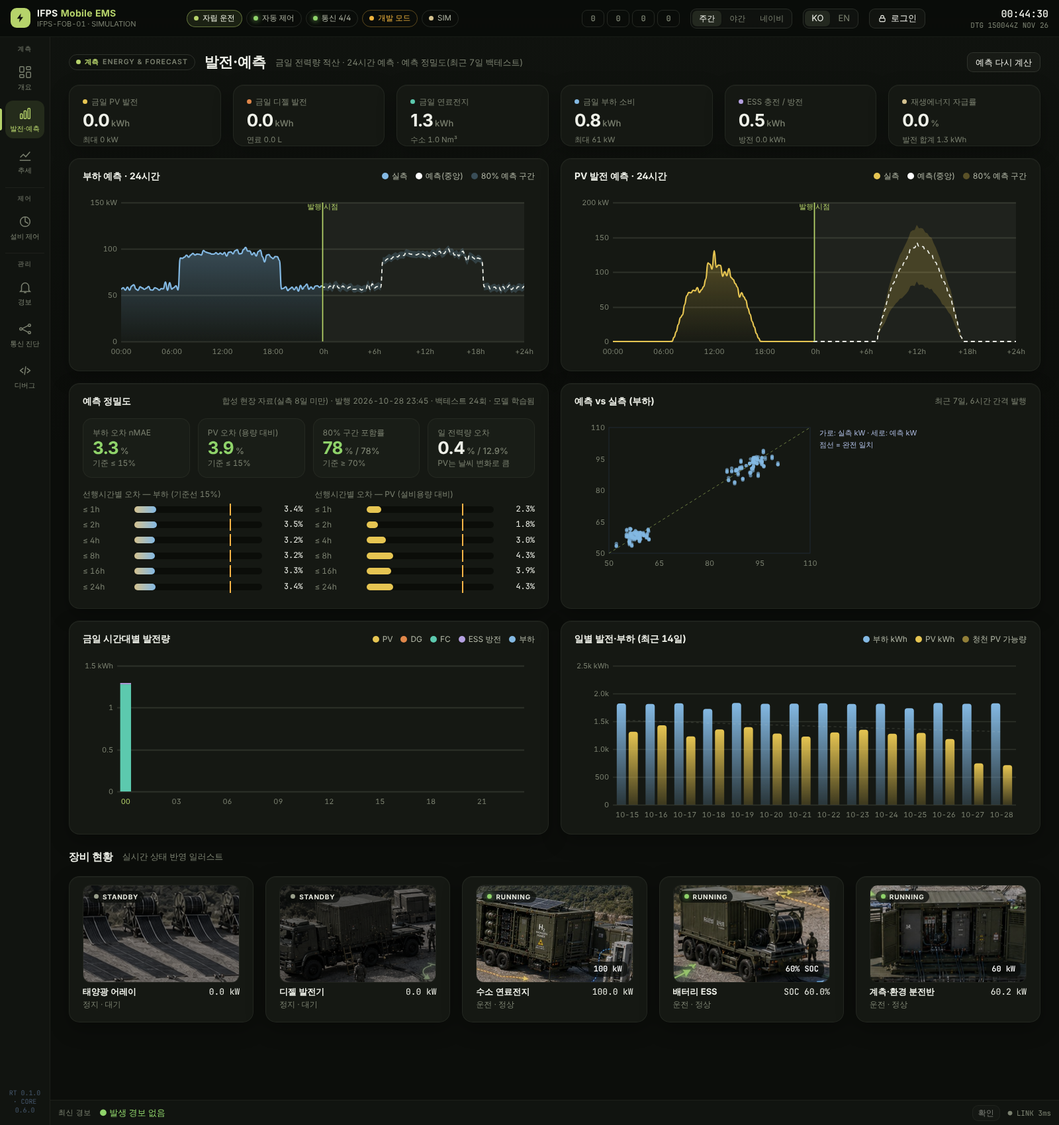
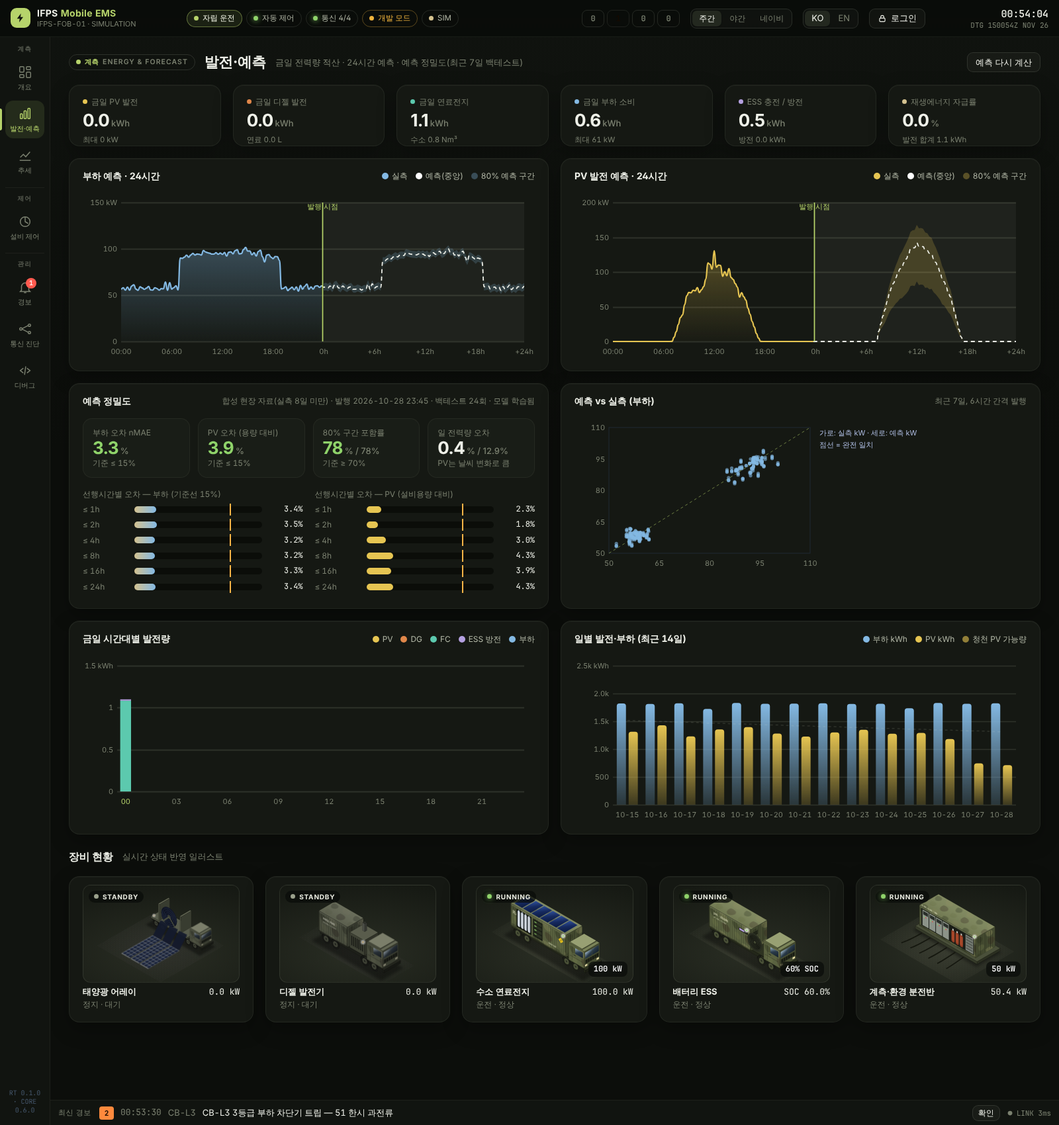
feat(mobile_ems): original isometric vector equipment art and generated deployment map (no cropped images)
- isoart.js: isometric drawing library with camouflage, edges, ground pads; models for ESS/PV/H2/hybrid-diesel trucks, distribution container, EMS shelter, FSU, tents, ammo bunker
- deployment map rebuilt as vector scene: mountains, gravel ground, ring cables with live flow and fault markers, FSU nodes, comm links
- cards and one-line diagram tiles use the vector art with live state; cropped proposal images removed

Claude-Session: https://claude.ai/code/session_01LA7MXdZMW4gUQZvBygoRnA

diff --git a/mobile_ems/ifps_ems_rt/hmi/static/isoart.js b/mobile_ems/ifps_ems_rt/hmi/static/isoart.js
@@ -1,0 +1,189 @@
+/* 등각(아이소메트릭) 벡터 장비 일러스트 — 자체 제작(제안서 이미지는 형태·구성만 참고)
+   좌표: x(오른쪽 아래), y(왼쪽 아래), z(위), 단위 m.  면 그룹(faceL/faceR/faceT) 안에서는 면 기준 좌표로 그린다. */
+"use strict";
+const ISO_C = Math.cos(Math.PI / 6), ISO_S = 0.5;
+const OD = { t: "#7b8459", l: "#5a6240", r: "#454c31", dk: "#2e3321", ln: "#23271a", hi: "#98a073", tire: "#1b1d16", rim: "#4a5137", sten: "#d7d9b8" };
+let _isoN = 0;
+class Iso {
+  constructor(ox, oy, S) { this.ox = ox; this.oy = oy; this.S = S; this.id = "iso" + (++_isoN); }
+  p(x, y, z = 0) { return [this.ox + (x - y) * ISO_C * this.S, this.oy + (x + y) * ISO_S * this.S - z * this.S]; }
+  pts(a) { return a.map(q => this.p(...q).map(v => v.toFixed(1)).join(",")).join(" "); }
+  poly(a, fill, extra = "") { return `<polygon points="${this.pts(a)}" fill="${fill}" stroke="#0b0d08" stroke-opacity=".38" stroke-width="${Math.max(.5, this.S * .035).toFixed(2)}" stroke-linejoin="round" ${extra}/>`; }
+  ground(x0, y0, x1, y1) { return `<polygon points="${this.pts([[x0, y0, 0], [x1, y0, 0], [x1, y1, 0], [x0, y1, 0]])}" fill="url(#${this.id}gr)"/><polygon points="${this.pts([[x0, y0, 0], [x1, y0, 0], [x1, y1, 0], [x0, y1, 0]])}" fill="url(#${this.id}gv)" opacity=".3"/>`; }
+  box(x, y, z, w, d, h, c = OD, extra = "") {
+    return this.poly([[x, y, z + h], [x + w, y, z + h], [x + w, y + d, z + h], [x, y + d, z + h]], c.t, extra) +
+      this.poly([[x, y + d, z], [x + w, y + d, z], [x + w, y + d, z + h], [x, y + d, z + h]], c.l, extra) +
+      this.poly([[x + w, y, z], [x + w, y + d, z], [x + w, y + d, z + h], [x + w, y, z + h]], c.r, extra);
+  }
+  // 왼쪽 면(y=y0 평면, x 방향 폭 w, 높이 h): 원점=왼쪽 위, u→x, v↓
+  faceL(x, y, z, h, inner) { const [X, Y] = this.p(x, y, z + h), S = this.S; return `<g transform="matrix(${(ISO_C * S).toFixed(3)},${(ISO_S * S).toFixed(3)},0,${S},${X.toFixed(1)},${Y.toFixed(1)})">${inner}</g>`; }
+  // 오른쪽 면(x=x0 평면): 원점=y+d 쪽 위, u→(y 감소), v↓
+  faceR(x, y, z, d, h, inner) { const [X, Y] = this.p(x, y + d, z + h), S = this.S; return `<g transform="matrix(${(ISO_C * S).toFixed(3)},${(-ISO_S * S).toFixed(3)},0,${S},${X.toFixed(1)},${Y.toFixed(1)})">${inner}</g>`; }
+  // 윗면(z=z0 평면): 원점=(x,y), u→x, v→y
+  faceT(x, y, z, inner) { const [X, Y] = this.p(x, y, z), S = this.S; return `<g transform="matrix(${(ISO_C * S).toFixed(3)},${(ISO_S * S).toFixed(3)},${(-ISO_C * S).toFixed(3)},${(ISO_S * S).toFixed(3)},${X.toFixed(1)},${Y.toFixed(1)})">${inner}</g>`; }
+  shadow(x, y, w, d, op = .38) { return this.poly([[x - .2, y - .1, 0], [x + w + .5, y - .1, 0], [x + w + .5, y + d + .6, 0], [x - .2, y + d + .6, 0]], "#000", `opacity="${op}" filter="url(#${this.id}b)"`); }
+  defs() { return `<defs><filter id="${this.id}b" x="-20%" y="-20%" width="140%" height="140%"><feGaussianBlur stdDeviation="${(this.S * .18).toFixed(1)}"/></filter>
+    <linearGradient id="${this.id}sh" x1="0" y1="0" x2="0" y2="1"><stop offset="0" stop-color="#fff" stop-opacity=".10"/><stop offset="1" stop-color="#000" stop-opacity=".18"/></linearGradient>
+    <linearGradient id="${this.id}gl" x1="0" y1="0" x2="1" y2="1"><stop offset="0" stop-color="#9fb7c9"/><stop offset=".45" stop-color="#2a3b4a"/><stop offset="1" stop-color="#16202a"/></linearGradient>
+    <linearGradient id="${this.id}cy" x1="0" y1="0" x2="1" y2="0"><stop offset="0" stop-color="#8f9aa8"/><stop offset=".4" stop-color="#eef2f6"/><stop offset="1" stop-color="#6c7684"/></linearGradient>
+    <linearGradient id="${this.id}pv" x1="0" y1="0" x2="1" y2="1"><stop offset="0" stop-color="#2f4f9a"/><stop offset=".5" stop-color="#15295e"/><stop offset="1" stop-color="#0c1a40"/></linearGradient>
+    <pattern id="${this.id}camo" patternUnits="userSpaceOnUse" width="3.2" height="2.2"><path d="M.1 .3 C.6 0 1.2 .4 1.0 .8 C.8 1.2 .2 1.1 .1 .3Z" fill="#2f3520"/><path d="M1.5 .1 C2.2 -.1 2.9 .3 2.6 .7 C2.3 1.0 1.6 .8 1.5 .1Z" fill="#8a8a5c"/>
+      <path d="M1.9 1.1 C2.6 .9 3.2 1.4 2.8 1.9 C2.4 2.3 1.7 1.8 1.9 1.1Z" fill="#3a2f22"/><path d="M.4 1.4 C1.0 1.2 1.5 1.6 1.2 2.0 C.9 2.3 .3 2.0 .4 1.4Z" fill="#6c7448"/></pattern>
+    <radialGradient id="${this.id}gr" cx="50%" cy="50%" r="60%"><stop offset="0" stop-color="#3a3d31" stop-opacity=".9"/><stop offset="1" stop-color="#3a3d31" stop-opacity="0"/></radialGradient>
+    <pattern id="${this.id}gv" patternUnits="userSpaceOnUse" width="7" height="5"><circle cx="1" cy="1" r=".7" fill="#6b6b5c"/><circle cx="4.5" cy="2.4" r=".6" fill="#55554a"/><circle cx="2.6" cy="4" r=".5" fill="#77776a"/><circle cx="6" cy="4.4" r=".45" fill="#4a4a40"/></pattern>
+    <radialGradient id="${this.id}lamp"><stop offset="0" stop-color="#fff"/><stop offset=".35" stop-color="currentColor"/><stop offset="1" stop-color="currentColor" stop-opacity="0"/></radialGradient></defs>`;
+  }
+}
+const NS = 'vector-effect="non-scaling-stroke"';
+/* 컨테이너(골판·모서리 기둥·스텐실) */
+function isoContainer(I, x, y, z, w, d, h, o = {}) {
+  const c = o.c || OD; let ribs = "";
+  for (let u = .35; u < w - .3; u += .32) ribs += `<rect x="${u.toFixed(2)}" y=".12" width=".13" height="${(h - .24).toFixed(2)}" fill="#000" opacity=".14"/>`;
+  let ribsR = ""; for (let u = .3; u < d - .25; u += .32) ribsR += `<rect x="${u.toFixed(2)}" y=".12" width=".12" height="${(h - .24).toFixed(2)}" fill="#000" opacity=".12"/>`;
+  return I.box(x, y, z, w, d, h, c) +
+    I.faceL(x, y + d, z, h, `<rect width="${w}" height="${h}" fill="url(#${I.id}camo)" opacity="${o.camo ?? .42}"/>${ribs}<rect x="0" y="0" width=".16" height="${h}" fill="#000" opacity=".25"/><rect x="${w - .16}" y="0" width=".16" height="${h}" fill="#000" opacity=".25"/>
+      <rect x="0" y="0" width="${w}" height=".12" fill="#fff" opacity=".08"/><rect x="0" y="${h - .12}" width="${w}" height=".12" fill="#000" opacity=".3"/>
+      ${o.label ? `<text x="${o.lx ?? .6}" y="${o.ly ?? .75}" font-size="${o.fs ?? .34}" font-family="Consolas,monospace" font-weight="700" fill="${OD.sten}" opacity=".78">${o.label}</text>` : ""}
+      ${o.sub ? `<text x="${o.lx ?? .6}" y="${(o.ly ?? .75) + .42}" font-size=".24" font-family="Consolas,monospace" fill="${OD.sten}" opacity=".55">${o.sub}</text>` : ""}${o.inL || ""}`) +
+    I.faceR(x + w, y, z, d, h, `<rect width="${d}" height="${h}" fill="url(#${I.id}camo)" opacity="${o.camo ?? .42}"/>${ribsR}<rect x="${d / 2 - .02}" y=".1" width=".04" height="${h - .2}" fill="#000" opacity=".4"/>
+      <rect x="${d * .25}" y=".2" width=".05" height="${h - .4}" fill="#1a1d14" opacity=".7"/><rect x="${d * .75}" y=".2" width=".05" height="${h - .4}" fill="#1a1d14" opacity=".7"/>${o.inR || ""}`) +
+    I.faceT(x, y, z + h, `<rect width="${w}" height="${d}" fill="url(#${I.id}camo)" opacity="${(o.camo ?? .42) * .8}"/><rect x="0" y="0" width="${w}" height="${d}" fill="url(#${I.id}sh)" opacity=".5"/>${o.inT || ""}`);
+}
+/* 군용 트럭(8×8) — cargo(I, x0, z0, len) 콜백으로 적재물 */
+function isoTruck(I, x, y, L, cargo, o = {}) {
+  const Wd = 2.5, cabL = 2.3; let s = I.shadow(x, y, L, Wd);
+  s += I.box(x + .2, y + .25, .7, L - .3, Wd - .5, .38, { t: OD.dk, l: OD.ln, r: OD.ln });
+  const axles = o.axles || [1.2, 2.55, L - 2.6, L - 1.25];
+  s += I.faceL(x, y + Wd - .1, 0, 1.2, axles.map(u => `<circle cx="${u}" cy=".62" r=".6" fill="${OD.tire}"/><circle cx="${u}" cy=".62" r=".34" fill="${OD.rim}"/><circle cx="${u}" cy=".62" r=".12" fill="#2a2e22"/>
+    <path d="M${u - .6} .62 a.6 .6 0 0 1 1.2 0" fill="none" stroke="#000" stroke-opacity=".5" stroke-width=".05"/>`).join("") +
+    `<rect x="${L - cabL - .35}" y=".05" width="1.0" height=".14" fill="${OD.dk}"/><rect x=".1" y=".05" width="1.2" height=".14" fill="${OD.dk}"/>`);
+  s += cargo(I, x + .15, 1.08, L - cabL - .35);
+  const cx = x + L - cabL; s += I.box(cx, y + .12, .95, cabL, Wd - .24, 2.15, { t: OD.t, l: OD.l, r: OD.r });
+  s += I.box(cx + .1, y + .2, 3.1, cabL - .5, Wd - .4, .12, { t: OD.hi, l: OD.l, r: OD.r });
+  s += I.faceL(cx, y + Wd - .12, .95, 2.15, `<rect width="${cabL}" height="2.15" fill="url(#${I.id}camo)" opacity=".4"/><rect x=".95" y=".22" width="1.15" height=".72" rx=".06" fill="url(#${I.id}gl)"/><rect x=".5" y=".2" width=".05" height="1.75" fill="#000" opacity=".35"/>
+    <rect x=".7" y="1.15" width=".35" height=".06" fill="#1a1d14"/><rect x=".15" y="1.45" width="1.9" height=".08" fill="#000" opacity=".25"/>`);
+  s += I.faceR(cx + cabL, y + .12, .95, Wd - .24, 2.15, `<rect x=".12" y=".2" width="${Wd - .48}" height=".78" rx=".05" fill="url(#${I.id}gl)"/><rect x="${(Wd - .24) / 2 - .02}" y=".2" width=".04" height=".78" fill="${OD.r}"/>
+    <rect x=".12" y="1.15" width="${Wd - .48}" height=".5" fill="#2a2f20"/>${[0, 1, 2, 3, 4, 5].map(i => `<rect x="${.25 + i * .32}" y="1.2" width=".18" height=".4" fill="#151810"/>`).join("")}
+    <rect x=".1" y="1.75" width=".35" height=".22" rx=".04" fill="#f3e7b0" opacity="${o.lights ? .95 : .55}"/><rect x="${Wd - .69}" y="1.75" width=".35" height=".22" rx=".04" fill="#f3e7b0" opacity="${o.lights ? .95 : .55}"/>`);
+  s += I.box(cx + cabL, y + .05, .55, .25, Wd - .1, .35, { t: OD.dk, l: OD.ln, r: "#1c1f15" });
+  return s;
+}
+function lamp(I, x, y, z, color, on) { const [X, Y] = I.p(x, y, z); return `<g style="color:${color}"><circle cx="${X}" cy="${Y}" r="${Math.min(14, I.S * .4)}" fill="url(#${I.id}lamp)" opacity="${on ? .9 : .25}" class="${on ? "eqpulse" : ""}"/><circle cx="${X}" cy="${Y}" r="${Math.min(3.5, I.S * .1)}" fill="${color}"/></g>`; }
+
+/* ── 장비 모델 (각각 st = {on, lost, value, soc}) */
+const ISO_MODELS = {
+  ESS(I, st) {
+    return isoTruck(I, 0, 0, 10.2, (I, x, z, len) => {
+      let s = isoContainer(I, x, .1, z, len - 1.6, 2.3, 2.6, { label: "IFPS · ESS(GFM)", sub: "LFP 1.0MWh / PCS 500kW", inR: `<rect x=".3" y=".5" width=".7" height=".55" fill="#2b3020"/>${[0, 1, 2].map(i => `<rect x=".35" y="${.58 + i * .16}" width=".6" height=".07" fill="#151810"/>`).join("")}` });
+      const rx = x + len - 1.1; s += I.faceL(rx - .8, 2.35, z, 2.4, `<circle cx=".8" cy="1.15" r="1.05" fill="#2a2e22"/><circle cx=".8" cy="1.15" r=".85" fill="#14160f"/>${[0, 1, 2, 3, 4].map(i => `<circle cx=".8" cy="1.15" r="${.8 - i * .14}" fill="none" stroke="#3b4130" stroke-width=".04"/>`).join("")}<circle cx=".8" cy="1.15" r=".14" fill="${OD.rim}"/>`);
+      const soc = Math.max(0, Math.min(100, st.soc ?? 60));
+      s += I.faceL(x, 2.4, z, 2.6, `<rect x="${len - 3.3}" y=".55" width="1.25" height=".34" rx=".05" fill="#0b0d0a"/><rect x="${len - 3.25}" y=".6" width="${1.15 * soc / 100}" height=".24" rx=".03" fill="#b39ddb"/>`);
+      return s + lamp(I, x + len - 2.2, 2.4, z + 2.2, st.lost ? "#ff5148" : st.on ? "#8fd36a" : "#f0b23a", true);
+    }, { lights: st.on });
+  },
+  PV(I, st) {
+    let s = isoTruck(I, 0, 0, 10.4, (I, x, z, len) => {
+      let r = I.box(x, .1, z, len - .2, 2.3, .25, { t: "#6a7350", l: OD.l, r: OD.r });
+      r += I.box(x + 1.4, .2, z + .25, .25, 2.1, 2.9, OD) + I.box(x + len - 1.9, .2, z + .25, .25, 2.1, 2.9, OD);
+      const cxr = (len - 3.2) / 2 + 1.5;
+      r += I.faceL(x, 2.45, z + .2, 3.6, `<circle cx="${cxr}" cy="1.75" r="1.62" fill="#0c1430"/>${[0, 1, 2, 3, 4, 5, 6, 7].map(i => `<circle cx="${cxr}" cy="1.75" r="${1.55 - i * .17}" fill="none" stroke="${i % 2 ? "#2a447f" : "#1a2b5c"}" stroke-width=".07"/>`).join("")}
+        <circle cx="${cxr}" cy="1.75" r=".32" fill="${OD.rim}"/><circle cx="${cxr}" cy="1.75" r=".12" fill="#1b1e15"/>
+        <path d="M${cxr - 1.7} 3.55 L${cxr} 1.75 L${cxr + 1.7} 3.55" stroke="${OD.l}" stroke-width=".22" fill="none"/>`);
+      return r + lamp(I, x + .6, 2.4, z + .7, st.lost ? "#ff5148" : st.on ? "#8fd36a" : "#f0b23a", true);
+    }, { lights: st.on });
+    for (let k = 0; k < 3; k++) {                                 // 지면에 펼친 PV 필름 3열(트럭 앞쪽 = 화면 앞)
+      const x0 = 2.4 + k * 1.9; let cells = "";
+      for (let r = 0; r < 9; r++) for (let c = 0; c < 3; c++) cells += `<rect x="${.06 + c * .56}" y="${.08 + r * .7}" width=".5" height=".62" fill="url(#${I.id}pv)" stroke="#9cb9ff" stroke-opacity=".28" stroke-width=".02"/>`;
+      const [ax, ay] = I.p(x0 + .85, 2.7, 2.0), [bx, by] = I.p(x0 + .85, 4.3, .02);
+      s += `<path d="M${ax} ${ay} L${bx} ${by}" stroke="#14214a" stroke-width="${I.S * 1.6}" opacity=".95"/>`;
+      s += I.faceT(x0, 4.3, .02, `<rect x="-.04" y="0" width="1.76" height="6.5" fill="#c7cfdc" opacity=".55"/>${cells}<rect x="0" y="0" width="1.7" height="6.5" fill="#fff" opacity="${st.on ? .10 : .02}"/>`);
+    }
+    return s;
+  },
+  FC(I, st) {
+    return isoTruck(I, 0, 0, 11, (I, x, z, len) => {
+      const w = len - .2, d = 2.4, h = 2.8; let cyl = "";
+      for (let i = 0; i < 4; i++) cyl += `<rect x="${1.0 + i * .5}" y=".35" width=".42" height="${h - .75}" rx=".2" fill="url(#${I.id}cy)"/><rect x="${1.12 + i * .5}" y=".25" width=".18" height=".14" fill="#7b8696"/>`;
+      let s = isoContainer(I, x, 0, z, w, d, h, {
+        label: "H₂", lx: .3, ly: 1.1, fs: .62, inL: `<rect x=".85" y=".25" width="2.2" height="${h - .5}" fill="#11140d"/>${cyl}
+          <rect x="3.3" y=".3" width="1.4" height="${h - .6}" fill="#1a1e15"/>${[0, 1, 2, 3].map(i => `<rect x="3.42" y="${.45 + i * .5}" width="1.16" height=".36" fill="#2b3122"/><rect x="3.5" y="${.55 + i * .5}" width=".3" height=".1" fill="${st.on ? "#8fd36a" : "#566043"}"/>`).join("")}
+          <g transform="translate(${w - 1.1} .7)"><polygon points=".35,0 .7,.35 .35,.7 0,.35" fill="#e8c21c"/><text x=".35" y=".46" text-anchor="middle" font-size=".28" font-weight="900" fill="#111">!</text></g>
+          <text x="${w - 2.6}" y="${h - .45}" font-size=".24" font-family="Consolas,monospace" fill="${OD.sten}" opacity=".7">HYDROGEN POWER</text>`,
+        inT: [0, 1, 2, 3, 4, 5].map(i => `<rect x="${.3 + i * ((w - .6) / 6)}" y=".25" width="${(w - .6) / 6 - .12}" height="${d - .5}" fill="url(#${I.id}pv)" stroke="#8fb0ff" stroke-opacity=".3" stroke-width=".02"/>`).join(""),
+      });
+      return s + lamp(I, x + w - .4, d, z + h - .3, st.lost ? "#ff5148" : st.on ? "#8fd36a" : "#f0b23a", true);
+    }, { lights: st.on });
+  },
+  DG(I, st) {
+    return isoTruck(I, 0, 0, 9.4, (I, x, z, len) => {
+      let s = isoContainer(I, x, .1, z, len - 2.6, 2.3, 2.5, { label: "HYBRID POWER", sub: "ESS 200kWh + DG 60/30kW" });
+      const gx = x + len - 2.4; s += I.box(gx, .25, z, 2.1, 2.0, 1.9, { t: "#6d7550", l: "#4c5336", r: "#3a402a" });
+      s += I.faceL(gx, 2.25, z, 1.9, [0, 1, 2, 3, 4, 5, 6].map(i => `<rect x="${.2 + i * .26}" y=".3" width=".14" height="1.2" fill="#1d2016"/>`).join(""));
+      s += I.box(gx + .7, .8, z + 1.9, .32, .32, 1.0, { t: "#3a3f30", l: "#5d6152", r: "#43473a" });
+      if (st.on) { const [sx, sy] = I.p(gx + .86, .96, z + 3.0); s += `<g class="eqsmoke"><circle cx="${sx + 4}" cy="${sy - 8}" r="${I.S * .45}" fill="#aab0bd" opacity=".35"/><circle cx="${sx + 12}" cy="${sy - 22}" r="${I.S * .65}" fill="#aab0bd" opacity=".2"/></g>`; }
+      return s + lamp(I, gx + 1.9, 2.25, z + 1.6, st.lost ? "#ff5148" : st.on ? "#8fd36a" : "#f0b23a", true);
+    }, { lights: st.on });
+  },
+  G1(I, st) { return ISO_MODELS.DG(I, Object.assign({}, st, { on: false })); },
+  DIST(I, st) {
+    let s = I.shadow(0, 0, 9.2, 3.2) + I.box(-.2, -.2, 0, 9.6, 3.6, .35, { t: "#4a503a", l: "#363b2a", r: "#2b2f21" });
+    let bay = "", w = 8.8, h = 2.7;
+    for (let i = 0; i < 4; i++) bay += `<rect x="${.5 + i * 1.05}" y=".3" width=".95" height="2.1" fill="#8c9389"/><rect x="${.6 + i * 1.05}" y=".45" width=".75" height=".45" fill="#2a2f2a"/><circle cx="${.75 + i * 1.05}" cy="1.2" r=".08" fill="${st.on ? "#8fd36a" : "#666"}"/><circle cx="${1.0 + i * 1.05}" cy="1.2" r=".08" fill="#e05040"/>`;
+    for (let i = 0; i < 3; i++) bay += `<rect x="${5.0 + i * .65}" y=".75" width=".5" height="1.6" rx=".2" fill="#8b3a22"/><rect x="${5.05 + i * .65}" y=".95" width=".4" height="1.2" rx=".15" fill="#a6482a"/><rect x="${5.15 + i * .65}" y=".55" width=".2" height=".25" fill="#c9c9c0"/>`;
+    bay += `<rect x="7.2" y=".3" width="1.2" height="2.1" fill="#7c8279"/>${[0, 1, 2, 3, 4].map(i => `<rect x="7.3" y="${.45 + i * .38}" width="1.0" height=".22" fill="#565c55"/>`).join("")}`;
+    s += isoContainer(I, 0, 0, .35, w, 3.0, h, { inL: `<rect x=".3" y=".2" width="${w - .6}" height="${h - .4}" fill="#1a1d17"/>${bay}`, label: "", c: OD });
+    s += I.faceL(0, 3.0, .35, h, `<text x=".35" y="-.12" font-size=".3" font-family="Consolas,monospace" font-weight="700" fill="${OD.sten}" opacity=".7">22.9kV / 6.6kV / 380V</text>`);
+    for (let i = 0; i < 6; i++) { const [a, b] = I.p(1 + i * 1.3, 3.6, .1), [c2, d2] = I.p(.6 + i * 1.4, 6.4, 0); s += `<path d="M${a} ${b} Q${(a + c2) / 2 - 10} ${(b + d2) / 2 + 8} ${c2} ${d2}" stroke="#15170f" stroke-width="${I.S * .16}" fill="none"/>`; }
+    return s + lamp(I, 8.6, 3.0, 3.1, st.lost ? "#ff5148" : st.on ? "#8fd36a" : "#f0b23a", true);
+  },
+  EMS(I, st) {
+    let s = I.shadow(0, 0, 9, 3) + I.box(-.2, -.2, 0, 9.4, 3.4, .3, { t: "#4a503a", l: "#363b2a", r: "#2b2f21" });
+    let con = ""; const scr = st.on === false ? "#203028" : "#34d2a8";
+    for (let i = 0; i < 4; i++) con += `<rect x="${.7 + i * 1.75}" y="1.55" width="1.5" height=".75" fill="#2c3124"/><rect x="${.8 + i * 1.75}" y=".7" width=".62" height=".42" fill="#0a1218"/><rect x="${1.48 + i * 1.75}" y=".7" width=".62" height=".42" fill="#0a1218"/>
+      <path d="M${.85 + i * 1.75} 1.0 l.15 -.1 .12 .06 .14 -.16 .12 .08" stroke="${scr}" stroke-width=".035" fill="none"/><rect x="${1.53 + i * 1.75}" y=".76" width=".5" height=".08" fill="${scr}" opacity=".7"/><rect x="${1.53 + i * 1.75}" y=".9" width=".32" height=".08" fill="#e6c552" opacity=".7"/>
+      <rect x="${1.05 + i * 1.75}" y="1.25" width=".7" height=".3" rx=".1" fill="#1b1e16"/>`;
+    s += isoContainer(I, 0, 0, .3, 8.8, 3.0, 2.7, { inL: `<rect x=".35" y=".25" width="8.1" height="2.25" fill="#141811"/><rect x=".35" y=".25" width="8.1" height="2.25" fill="#34d2a8" opacity="${st.on === false ? 0 : .05}"/>${con}`, label: "" });
+    s += I.faceL(0, 3.0, .3, 2.7, `<text x=".35" y="-.12" font-size=".3" font-family="Consolas,monospace" font-weight="700" fill="${OD.sten}" opacity=".7">IFPS EMS · C2 SHELTER</text>`);
+    const [ax, ay] = I.p(7.8, .6, 3.0); s += `<line x1="${ax}" y1="${ay}" x2="${ax}" y2="${ay - I.S * 2.2}" stroke="#3b4130" stroke-width="2"/><circle cx="${ax}" cy="${ay - I.S * 2.2}" r="${I.S * .14}" fill="#c9cba8"/>`;
+    return s + lamp(I, 8.6, 3.0, 2.8, st.lost ? "#ff5148" : "#8fd36a", true);
+  },
+  MTR(I, st) { return ISO_MODELS.DIST(I, st); },
+  FSU(I, st) {
+    let s = I.shadow(0, 0, 1.6, 1.4, .3) + I.box(0, 0, 0, 1.6, 1.3, 1.5, { t: "#727b55", l: "#535a3c", r: "#40462f" });
+    s += I.faceL(0, 1.3, 0, 1.5, `<polygon points=".55,.3 .8,.55 .55,.8 .3,.55" fill="#e8c21c"/><rect x=".2" y="1.15" width="1.2" height=".14" fill="#1b1e15"/>`);
+    return s + lamp(I, 1.4, 1.3, 1.3, st.lost ? "#ff5148" : st.on === false ? "#f0b23a" : "#8fd36a", true);
+  },
+  TENT(I, st, o = {}) {
+    const w = o.w || 6, d = o.d || 4, h = 1.5, rz = 2.7; let s = I.shadow(0, 0, w, d, .3);
+    s += I.box(0, 0, 0, w, d, h, { t: "#6e7652", l: "#5f6746", r: "#4d5439" });
+    s += I.poly([[0, d, h], [w, d, h], [w, d / 2, rz], [0, d / 2, rz]], "#6c744f") + I.poly([[w, d, h], [w, 0, h], [w, d / 2, rz]], "#525a3c");
+    s += I.faceL(0, d, 0, h, [1, 2, 3, 4, 5].map(i => `<rect x="${i * w / 6}" y="0" width=".05" height="${h}" fill="#000" opacity=".18"/>`).join(""));
+    s += I.faceR(w, 0, 0, d, h, [1, 2, 3].map(i => `<rect x="${i * d / 4}" y="0" width=".05" height="${h}" fill="#000" opacity=".2"/>`).join(""));
+    if (o.cross) s += I.faceL(w * .35, d * .75, h + .55, .6, `<rect x="0" y="0" width="1.3" height=".6" fill="#f2f0e6"/><rect x=".52" y=".05" width=".26" height=".5" fill="#c62828"/><rect x=".38" y=".19" width=".54" height=".22" fill="#c62828"/>`);
+    s += I.faceL(0, d, 0, h, `<rect x="${w * .4}" y=".3" width="1.1" height="1.2" fill="#2c3122"/><rect x="${w * .4 + .1}" y=".4" width=".9" height=".5" fill="${st.on ? "#e6c552" : "#20251a"}" opacity=".8"/>`);
+    if (o.mast) { const [ax, ay] = I.p(w + .6, .4, 0); s += `<line x1="${ax}" y1="${ay}" x2="${ax}" y2="${ay - I.S * 4}" stroke="#3b4130" stroke-width="2"/><ellipse cx="${ax - 6}" cy="${ay - I.S * 3.2}" rx="${I.S * .5}" ry="${I.S * .35}" fill="#c8cbb8"/>`; }
+    return s + lamp(I, w - .3, d, 1.2, st.lost ? "#ff5148" : st.on ? "#8fd36a" : "#f0b23a", true);
+  },
+  AMMO(I, st) {
+    let s = I.shadow(0, 0, 6, 4.5, .3);
+    const bag = (x, y, z, w, d) => I.box(x, y, z, w, d, .32, { t: "#a39a73", l: "#857c5a", r: "#6f6849" });
+    for (let k = 0; k < 3; k++) { for (let i = 0; i < 8; i++) s += bag(i * .75, 0, k * .33, .7, .6); for (let i = 0; i < 6; i++) s += bag(0, .65 + i * .62, k * .33, .6, .58); }
+    s += I.box(1.3, 1.2, 0, 2.6, 2.0, 1.2, { t: "#6d7550", l: "#4f5638", r: "#3d432c" }) + I.box(4.0, 1.6, 0, 1.4, 1.6, .8, { t: "#6d7550", l: "#4f5638", r: "#3d432c" });
+    for (let k = 0; k < 3; k++) { for (let i = 0; i < 8; i++) s += bag(i * .75, 3.9, k * .33, .7, .6); for (let i = 0; i < 6; i++) s += bag(5.4, .65 + i * .55, k * .33, .6, .52); }
+    return s + lamp(I, 3.9, 3.2, 1.1, st.lost ? "#ff5148" : st.on ? "#8fd36a" : "#f0b23a", true);
+  },
+  L1(I, st) { return ISO_MODELS.TENT(I, st, { mast: true }); },
+  L2(I, st) { return ISO_MODELS.TENT(I, st, { cross: true, w: 6.5 }); },
+  L3(I, st) { return ISO_MODELS.AMMO(I, st); },
+};
+const ISO_EXT = { ESS: [10.2, 2.6, 4.2], PV: [10.6, 10.9, 4.6], FC: [11, 2.6, 4.2], DG: [9.4, 2.6, 4.8], G1: [9.4, 2.6, 4.8], DIST: [9.6, 6.6, 3.5], MTR: [9.6, 6.6, 3.5], EMS: [9.4, 3.4, 5.4], FSU: [1.8, 1.6, 1.8], L1: [7, 4.5, 5.5], L2: [6.8, 4.2, 3.2], L3: [6.2, 4.6, 1.6] };
+/* 단독 그림: 뷰박스에 맞춰 축척 자동 계산 */
+function isoArt(kind, st = {}, W = 400, H = 250, pad = 14) {
+  const [Lx, Ly, Lz] = ISO_EXT[kind] || ISO_EXT.DIST, oy0 = 0;
+  const S = Math.min((W - 2 * pad) / ((Lx + Ly) * ISO_C), (H - 2 * pad) / ((Lx + Ly) * ISO_S + Lz));
+  const ox = (W - (Lx + Ly) * ISO_C * S) / 2 + (Ly + oy0) * ISO_C * S, oy = (H - ((Lx + Ly) * ISO_S + Lz) * S) / 2 + Lz * S - oy0 * ISO_S * S;
+  const I = new Iso(ox, oy, S);
+  return `<svg viewBox="0 0 ${W} ${H}" class="isoart" preserveAspectRatio="xMidYMid meet">${I.defs()}${I.ground(-1.5, -1.2, Lx + 1, Ly + 1)}${ISO_MODELS[kind] ? ISO_MODELS[kind](I, st) : ""}</svg>`;
+}
+/* 다른 SVG 안에 넣는 그룹(배치도용): 기준점(px,py)에 축척 S로 */
+function isoPlace(kind, st, px, py, S) { const I = new Iso(px, py, S); return `<g>${I.defs()}${ISO_MODELS[kind](I, st)}</g>`; }

diff --git a/mobile_ems/ifps_ems_rt/hmi/static/site.js b/mobile_ems/ifps_ems_rt/hmi/static/site.js
@@ -1,20 +1,17 @@
 /* 작전지 전개 현황(배치도 위 실시간 상태), 장비 사진 카드, 발전원 구성 도넛, 경보 매트릭스 */
 "use strict";
-const EQ_IMG = { PV: "img/eq_pv.jpg", DG: "img/eq_g1.jpg", G1: "img/eq_g1.jpg", FC: "img/eq_fc.jpg", ESS: "img/eq_ess.jpg", MTR: "img/eq_dist.jpg", DIST: "img/eq_dist.jpg",
-  EMS: "img/eq_ems.jpg", L1: "img/eq_load_c2.jpg", L2: "img/eq_load_med.jpg", L3: "img/eq_load_amm.jpg" };
-// 배치도 위치(이미지 대비 %), 라벨 방향
+const EQ_KIND = { PV: "PV", DG: "DG", G1: "DG", FC: "FC", ESS: "ESS", MTR: "DIST", DIST: "DIST", EMS: "EMS", L1: "L1", L2: "L2", L3: "L3" };
 const SITE_PTS = [
-  { id: "G1", no: "①", nm: "기동형 복합전력(디젤)", x: 12, y: 30 }, { id: "ESS", no: "②", nm: "이동형 ESS(GFM)", x: 31.5, y: 27 },
-  { id: "PV", no: "③", nm: "이동형 PV 발전", x: 50, y: 19 }, { id: "FC", no: "④", nm: "수소생성·발전", x: 77, y: 25 },
-  { id: "DIST", no: "⑥", nm: "배전·변압", x: 53, y: 41 }, { id: "EMS", no: "⑤", nm: "EMS 중앙제어", x: 90, y: 56, left: true },
-  { id: "L1", no: "", nm: "1등급 · 지휘통제/의무", x: 10, y: 70 }, { id: "L2", no: "", nm: "2등급 · 정비", x: 73, y: 80, left: true },
-  { id: "L3", no: "", nm: "3등급 · 탄약저장", x: 91, y: 77, left: true },
+  { id: "G1", no: "①", nm: "기동형 복합전력(디젤)" }, { id: "ESS", no: "②", nm: "이동형 ESS(GFM)" }, { id: "PV", no: "③", nm: "이동형 PV 발전" },
+  { id: "FC", no: "④", nm: "수소생성·발전" }, { id: "DIST", no: "⑥", nm: "배전·변압" }, { id: "EMS", no: "⑤", nm: "EMS 중앙제어", left: true },
+  { id: "L1", no: "", nm: "1등급 · 지휘통제" }, { id: "L2", no: "", nm: "2등급 · 의무" }, { id: "L3", no: "", nm: "3등급 · 탄약저장", left: true },
 ];
 function siteHtml() {
-  return `<div class="site"><img src="img/site.jpg" alt="작전지 전개 배치도" draggable="false"><div class="site-shade"></div>
-    ${SITE_PTS.map(p => `<div class="spt ${p.left ? "l" : ""}" onclick="location.hash='#control'" id="spt-${p.id}" style="left:${p.x}%;top:${p.y}%"><i class="pulse"></i><i class="core"></i>
-      <div class="scard"><div class="sh"><b>${p.no}</b> ${p.nm}</div><div class="sv"><span class="mono" id="sptv-${p.id}">—</span><span class="ss" id="spts-${p.id}">—</span></div></div></div>`).join("")}
-    <div class="site-leg"><span><i class="ok"></i>운전·급전</span><span><i class="idle"></i>정지·대기</span><span><i class="bad"></i>고장·두절</span></div></div>`;
+  const pos = id => { const e = MAP_EQ.find(q => q.id === id); const [Lx, Ly, Lz] = ISO_EXT[e.kind]; return [e.c[0] / MAP_W * 100, Math.max(15, (e.c[1] - ((Lx + Ly) * ISO_S / 2 + Lz) * MAP_S * .9) / MAP_H * 100)]; };
+  return `<div class="site"><div id="siteMap"></div><div class="site-shade"></div>
+    ${SITE_PTS.map(p => { const [x, y] = pos(p.id); return `<div class="spt ${p.left ? "l" : ""}" onclick="location.hash='#control'" id="spt-${p.id}" style="left:${x}%;top:${y}%"><i class="pulse"></i><i class="core"></i>
+      <div class="scard"><div class="sh"><b>${p.no}</b> ${p.nm}</div><div class="sv"><span class="mono" id="sptv-${p.id}">—</span><span class="ss" id="spts-${p.id}">—</span></div></div></div>`; }).join("")}
+    <div class="site-leg"><span><i class="ok"></i>운전·급전</span><span><i class="idle"></i>정지·대기</span><span><i class="bad"></i>고장·두절</span><span><b class="lg on"></b>전력(AC)</span><span><b class="lg com"></b>통신(EMS)</span></div></div>`;
 }
 function siteState(s) {
   const k = s.kpi, D = s.devices, gw = D.MTR && D.MTR.link !== "두절", cb = f => gw ? Math.round(val("CB." + f) ?? 1) : 1;
@@ -33,17 +30,30 @@ function siteState(s) {
   return out;
 }
 function siteUpdate(s) {
-  const st = siteState(s);
+  const st = siteState(s), box = $("#siteMap");
+  if (box) {
+    const sig = JSON.stringify(MAP_EQ.map(e => mapEqSt(s, e.id)).map(o => [o.on, o.lost, Math.round((o.soc || 0) / 5)]));
+    if (box.dataset.sig !== sig) { box.dataset.sig = sig; box.innerHTML = siteMapSvg(s); }
+    const D = s.devices, gw = D.MTR && D.MTR.link !== "두절", cb = f => gw ? Math.round(val("CB." + f) ?? 1) : 1, k = s.kpi;
+    const busLive = (val("BUS.a_v") ?? 440) > 300 || (val("BUS.b_v") ?? 440) > 300;
+    const flow = { G1: D.DG.on ? k.dg : 0, ESS: Math.abs(k.ess), PV: k.pv, FC: k.fc, L1: k.l1, L2: k.l2, L3: k.l3, RING: k.load, EMSP: 1 };
+    MAP_CAB.forEach(([a, b, f], i) => {
+      const e = document.getElementById("mf-" + i); if (!e) return; const c = ["RING", "EMSP"].includes(f) ? 1 : cb(f);
+      const cls = c === 2 ? "flt" : c === 0 || !busLive ? "off" : (flow[f] || 0) > .5 ? "on" : "idle";
+      e.setAttribute("class", "mflow " + cls); e.style.animationDirection = f === "ESS" && k.ess < 0 ? "reverse" : "normal";
+      e.style.animationDuration = Math.max(.6, 2.4 - Math.min(1, (flow[f] || 0) / 150) * 1.8) + "s";
+      const x = document.getElementById("mx-" + i); if (x) x.style.display = c === 2 ? "" : "none";
+    });
+  }
   SITE_PTS.forEach(p => { const e = $("#spt-" + p.id); if (!e) return; const x = st[p.id]; e.className = `spt ${p.left ? "l" : ""} ${x.st}`; $("#sptv-" + p.id).textContent = x.v; $("#spts-" + p.id).textContent = x.t; });
 }
 
-/* 장비 사진 카드: 사진 + 상태 띠 */
+/* 장비 카드: 자체 벡터 일러스트 + 상태 띠 */
 function equipPhoto(kind, st = {}) {
   const cls = st.lost || st.fault ? "bad" : st.on ? "ok" : "idle";
   const tag = st.lost ? "COMM LOSS" : st.fault ? "FAULT" : st.on ? "RUNNING" : "STANDBY";
-  return `<div class="eqph ${cls}"><img src="${EQ_IMG[kind] || EQ_IMG.DIST}" alt="${kind}" loading="lazy"><span class="eqtag"><i></i>${tag}</span>${st.value !== undefined && st.value !== null && st.value !== "" ? `<span class="eqval mono">${st.value}</span>` : ""}</div>`;
+  return `<div class="eqph ${cls}">${isoArt(EQ_KIND[kind] || "DIST", st, 400, 250)}<span class="eqtag"><i></i>${tag}</span>${st.value !== undefined && st.value !== null && st.value !== "" ? `<span class="eqval mono">${st.value}</span>` : ""}</div>`;
 }
-
 /* 도넛(발전원 구성) */
 function mixDonut(parts, total, size = 148) {
   const r = size / 2 - 12, c = 2 * Math.PI * r, sum = parts.reduce((a, p) => a + p[1], 0); let off = 0;
@@ -58,4 +68,60 @@ function alarmMatrix(alarms) {
   const cnt = MTX_ROWS.map(([, srcs]) => [1, 2, 3, 4].map(p => alarms.filter(a => a.prio === p && srcs.includes(a.src) && (a.state === "ACT" || !a.acked)).length));
   return `<div class="mtx"><span></span>${[1, 2, 3, 4].map(p => `<span class="mh">${prioTxt(p)}</span>`).join("")}
     ${MTX_ROWS.map(([nm], i) => `<span class="mr">${nm}</span>${cnt[i].map((n, j) => `<span class="mc ${n ? "p" + (j + 1) : ""}">${n}</span>`).join("")}`).join("")}</div>`;
+}
+
+/* 작전지 전개 배치도(자체 생성 벡터): 산악 배경 · 자갈 지면 · 장비 · 환상 배전 케이블(흐름·고장) · FSU · 통신선 */
+const MAP_W = 1600, MAP_H = 900, MAP_S = 21, MAP_O = [800, 150];
+const _mapI = new Iso(MAP_O[0], MAP_O[1], MAP_S);
+function mapWorld(X, Y) { const a = (X - MAP_O[0]) / (ISO_C * MAP_S), b = (Y - MAP_O[1]) / (ISO_S * MAP_S); return [(a + b) / 2, (b - a) / 2]; }
+// 장비 배치(화면 중심 좌표) — 제안서 배치 개념(전원 후열, 배전 중앙, EMS 측방, 부하 전열)을 참고해 재구성
+const MAP_EQ = [
+  { id: "G1", kind: "DG", c: [230, 330] }, { id: "ESS", kind: "ESS", c: [500, 300] }, { id: "PV", kind: "PV", c: [850, 225] },
+  { id: "FC", kind: "FC", c: [1250, 300] }, { id: "DIST", kind: "DIST", c: [810, 500] }, { id: "EMS", kind: "EMS", c: [1400, 540] },
+  { id: "L1", kind: "L1", c: [230, 740] }, { id: "L2", kind: "L2", c: [780, 820] }, { id: "L3", kind: "L3", c: [1380, 770] },
+];
+const MAP_FSU = [[400, 450], [630, 420], [1020, 410], [1180, 460], [500, 630], [800, 670], [1130, 640]];
+// 케이블: [시작, 끝, 급전선]
+const MAP_CAB = [
+  [[230, 370], [400, 450], "G1"], [[500, 340], [630, 420], "ESS"], [[850, 330], [1020, 410], "PV"], [[1250, 345], [1180, 460], "FC"],
+  [[400, 450], [630, 420], "RING"], [[630, 420], [810, 500], "RING"], [[810, 500], [1020, 410], "RING"], [[1020, 410], [1180, 460], "RING"],
+  [[1180, 460], [1130, 640], "RING"], [[1130, 640], [800, 670], "RING"], [[800, 670], [500, 630], "RING"], [[500, 630], [400, 450], "RING"], [[810, 500], [800, 670], "RING"],
+  [[500, 630], [240, 730], "L1"], [[800, 670], [780, 800], "L2"], [[1130, 640], [1370, 760], "L3"], [[1180, 460], [1390, 530], "EMSP"],
+];
+function _cabPath([x1, y1], [x2, y2]) { const mx = (x1 + x2) / 2, my = (y1 + y2) / 2 + Math.abs(x2 - x1) * .06; return `M${x1} ${y1} Q${mx} ${my} ${x2} ${y2}`; }
+function mapEqSt(s, id) {
+  const k = s.kpi, D = s.devices, lost = n => D[n] && D[n].link === "두절";
+  return { G1: { on: D.DG.on, lost: lost("DG") }, ESS: { on: true, lost: lost("ESS"), soc: k.soc }, PV: { on: k.pv > .5 }, FC: { on: D.FC.on, lost: lost("FC") },
+    DIST: { on: true, lost: lost("MTR") }, EMS: { on: true }, L1: { on: true }, L2: { on: true }, L3: { on: true } }[id] || {};
+}
+function siteMapSvg(s) {
+  const I = _mapI; let g = "";
+  // 하늘·산
+  g += `<defs><linearGradient id="mSky" x1="0" y1="0" x2="0" y2="1"><stop offset="0" stop-color="#26301f"/><stop offset="1" stop-color="#11150d"/></linearGradient>
+    <linearGradient id="mM1" x1="0" y1="0" x2="0" y2="1"><stop offset="0" stop-color="#3a4630"/><stop offset="1" stop-color="#1f2618"/></linearGradient>
+    <linearGradient id="mM2" x1="0" y1="0" x2="0" y2="1"><stop offset="0" stop-color="#2c3624"/><stop offset="1" stop-color="#161b11"/></linearGradient>
+    <radialGradient id="mGnd" cx="50%" cy="55%" r="70%"><stop offset="0" stop-color="#4a4b40"/><stop offset=".7" stop-color="#34362c"/><stop offset="1" stop-color="#22241c"/></radialGradient>
+    <pattern id="mGv" patternUnits="userSpaceOnUse" width="22" height="16"><circle cx="3" cy="3" r="1.6" fill="#5c5d50"/><circle cx="14" cy="8" r="1.3" fill="#2b2c25"/><circle cx="8" cy="13" r="1.1" fill="#66675a"/><circle cx="19" cy="14" r="1" fill="#3a3b33"/></pattern>
+    <pattern id="mTr" patternUnits="userSpaceOnUse" width="14" height="10"><circle cx="4" cy="5" r="4" fill="#253019"/><circle cx="11" cy="3" r="3.4" fill="#2e3a21"/></pattern>
+    <filter id="mBl"><feGaussianBlur stdDeviation="3"/></filter></defs>
+    <rect width="${MAP_W}" height="${MAP_H}" fill="url(#mSky)"/>
+    <path d="M0 150 L120 95 L260 130 L420 60 L560 115 L700 80 L860 120 L1010 55 L1180 105 L1320 70 L1480 110 L1600 80 L1600 260 L0 260Z" fill="url(#mM2)" opacity=".8"/>
+    <path d="M0 210 L160 150 L330 200 L470 140 L640 205 L820 150 L980 210 L1150 150 L1330 205 L1480 160 L1600 190 L1600 330 L0 330Z" fill="url(#mM1)"/>
+    <path d="M0 210 L160 150 L330 200 L470 140 L640 205 L820 150 L980 210 L1150 150 L1330 205 L1480 160 L1600 190 L1600 330 L0 330Z" fill="url(#mTr)" opacity=".7"/>`;
+  // 지면(등각 판)
+  const gp = [[-14, -2], [72, -2], [72, 70], [-14, 70]].map(([x, y]) => I.p(x - 20, y - 20, 0));
+  g += `<path d="M0 255 Q800 225 1600 255 L1600 900 L0 900Z" fill="url(#mGnd)"/><path d="M0 255 Q800 225 1600 255 L1600 900 L0 900Z" fill="url(#mGv)" opacity=".55"/>`;
+  // 케이블(바닥) — 통신선 먼저
+  MAP_EQ.filter(e => ["G1", "ESS", "PV", "FC", "DIST"].includes(e.id)).forEach(e => { g += `<path d="${_cabPath([1400, 520], [e.c[0], e.c[1] + 20])}" class="mcom" fill="none"/>`; });
+  MAP_CAB.forEach(([a, b, f], i) => { const d = _cabPath(a, b); g += `<path d="${d}" class="mcab" fill="none"/><path d="${d}" class="mflow" id="mf-${i}" data-f="${f}" fill="none"/>`; });
+  // FSU + 장비(뒤 → 앞)
+  const items = MAP_FSU.map((c, i) => ({ id: "FSU" + i, kind: "FSU", c, fsu: true })).concat(MAP_EQ).sort((a, b) => a.c[1] - b.c[1]);
+  items.forEach(e => {
+    const [Lx, Ly] = ISO_EXT[e.kind]; const [wx, wy] = mapWorld(e.c[0], e.c[1]); const [px, py] = I.p(wx - Lx / 2, wy - Ly / 2, 0);
+    const st = e.fsu ? { on: true } : mapEqSt(s, e.id);
+    g += `<g id="meq-${e.id}" class="meq">${isoPlace(e.kind, st, px, py, MAP_S)}</g>`;
+  });
+  // 고장 표식 자리
+  MAP_CAB.forEach(([a, b, f], i) => { const mx = (a[0] + b[0]) / 2, my = (a[1] + b[1]) / 2 + Math.abs(b[0] - a[0]) * .03; g += `<g class="mflt" id="mx-${i}" style="display:none"><circle cx="${mx}" cy="${my}" r="13" fill="#ff5148"/><path d="M${mx - 5} ${my - 5}l10 10M${mx + 5} ${my - 5}l-10 10" stroke="#fff" stroke-width="2.6" stroke-linecap="round"/></g>`; });
+  return `<svg viewBox="0 0 ${MAP_W} ${MAP_H}" class="sitemap" preserveAspectRatio="xMidYMid slice">${g}</svg>`;
 }

diff --git a/mobile_ems/ifps_ems_rt/hmi/static/sld.js b/mobile_ems/ifps_ems_rt/hmi/static/sld.js
@@ -38,7 +38,7 @@ function sldSvg() {
   const hex = (n, cy, r, color, icon, isLoad) => `<g class="node" id="n-${n.id}">
     <clipPath id="cp-${n.id}"><rect x="${n.x - r * 1.18}" y="${cy - r * .8}" width="${r * 2.36}" height="${r * 1.6}" rx="12"/></clipPath>
     <rect class="hexbg" x="${n.x - r * 1.18}" y="${cy - r * .8}" width="${r * 2.36}" height="${r * 1.6}" rx="12"/>
-    <image href="${EQ_IMG[n.id] || EQ_IMG.DIST}" x="${n.x - r * 1.18}" y="${cy - r * .8}" width="${r * 2.36}" height="${r * 1.6}" preserveAspectRatio="xMidYMid slice" clip-path="url(#cp-${n.id})" class="eqimg"/>
+    <g clip-path="url(#cp-${n.id})"><g id="art-${n.id}" data-x="${n.x - r * 1.18}" data-y="${cy - r * .8}" data-w="${r * 2.36}" data-h="${r * 1.6}" class="eqimg"></g></g>
     <rect class="hexo" x="${n.x - r * 1.18}" y="${cy - r * .8}" width="${r * 2.36}" height="${r * 1.6}" rx="12" style="fill:none"/>
     <circle class="sdot" cx="${n.x + r * 1.18 - 10}" cy="${cy - r * .8 + 10}" r="5"/>
     <g class="ico" style="display:none" stroke="${color}" transform="translate(${n.x - 16.8},${cy - 16.8}) scale(1.4)">${icon}</g>
@@ -77,6 +77,10 @@ function setFlow(id, kw, cap, on = true) {
 }
 
 /* 상태 갱신 */
+function sldArt(id, st) {
+  const g = document.getElementById("art-" + id); if (!g) return; const sig = JSON.stringify(st); if (g.dataset.sig === sig) return; g.dataset.sig = sig;
+  g.innerHTML = isoArt(EQ_KIND[id] || "DIST", st, 400, 250, 6).replace("<svg ", `<svg x="${g.dataset.x}" y="${g.dataset.y}" width="${g.dataset.w}" height="${g.dataset.h}" `);
+}
 function sldUpdate(s) {
   const k = s.kpi, D = s.devices, ko = S.lang === "ko", gw = D.MTR && D.MTR.link !== "두절";     // 보호 IED 게이트웨이(MTR) 통신
   const cbv = f => { const v = val("CB." + f); return (!gw || v === null || v === undefined) ? null : Math.round(v); };   // 1 투입, 0 개방, 2 트립, null 미상
@@ -101,6 +105,7 @@ function sldUpdate(s) {
     const lost = devLost(n.id), c = cbv(n.id), trip = c === 2, on = running[n.id] && !lost, g = $("#n-" + n.id);
     g.setAttribute("class", "node " + (trip ? "flt" : lost ? "lost" : on ? "on" : "off"));
     if (n.kw) $("#kw-" + n.id).textContent = lost ? "####" : F.kw(pk[n.id]);
+    sldArt(n.id, { on: n.id === "G1" ? !!(D.DG && D.DG.on) : on, lost, soc: n.id === "ESS" ? Math.round(k.soc / 5) * 5 : undefined });
     cbDraw(n.id);
     setCls("lu-" + n.id, "ln " + (trip ? "flt" : on ? "on" : "off")); setCls("ld-" + n.id, "ln " + (live[n.bus] ? "on" : "off"));
     const flowing = closed(n.id) && on && n.kw; setFlow(n.id, flowing ? pk[n.id] : 0, n.id === "PV" ? 400 : n.id === "ESS" ? 300 : 100);
@@ -121,6 +126,7 @@ function sldUpdate(s) {
     cbDraw(n.id); setCls("lu-" + n.id, "ln " + (live[n.bus] ? "on" : "off")); setCls("ld-" + n.id, "ln " + (trip ? "flt" : fed ? "on" : "off"));
     $("#n-" + n.id).setAttribute("class", "node " + (trip ? "flt" : fed ? "on" : "off"));
     $("#kw-" + n.id).textContent = gw ? F.kw(kw) : "####"; setFlow(n.id, fed ? kw : 0, 150);
+    sldArt(n.id, { on: fed, lost: trip });
     $("#fv-" + n.id).textContent = fed && kw > 0.5 ? `▼ ${F.kw(kw)}` : "";
     if (trip) st(n.id, (ko ? "트립 · " : "TRIP · ") + (ANSI_TXT[code(n.id)] || code(n.id)), "var(--alarm)");
     else if (!fed) st(n.id, c === 0 ? (ko ? "차단기 개방 · 정전" : "CB OPEN · DE-ENERGIZED") : (ko ? "무전압 · 정전" : "DE-ENERGIZED"), "var(--warn)");

diff --git a/mobile_ems/ifps_ems_rt/hmi/static/style.css b/mobile_ems/ifps_ems_rt/hmi/static/style.css
@@ -480,3 +480,24 @@ canvas.tspark { display: block; width: calc(100% + 40px); margin: 8px -20px 0; h
 .mtx .mh { text-align: center; color: var(--muted); font-size: 11px; padding-bottom: 2px; } .mtx .mr { color: var(--text2); align-self: center; }
 .mtx .mc { height: 30px; border-radius: 7px; display: grid; place-items: center; font: 650 14px var(--sans); background: rgba(var(--edge),.04); color: rgba(var(--edge),.3); }
 .mtx .mc.p1 { background: var(--alarm); color: #fff; } .mtx .mc.p2 { background: #f07a32; color: #1a0b00; } .mtx .mc.p3 { background: var(--warn); color: #1d1500; } .mtx .mc.p4 { background: #4d6a86; color: #e6f0ff; }
+
+/* ═══════════ 벡터 배치도 · 일러스트 카드 ═══════════ */
+.site #siteMap, .site #siteMap svg { position: absolute; inset: 0; width: 100%; height: 100%; display: block; }
+.sitemap .mcab { stroke: #121410; stroke-width: 6; stroke-linecap: round; }
+.sitemap .mflow { stroke-width: 2.6; stroke-linecap: round; stroke-dasharray: 9 12; animation: flow 1.4s linear infinite; }
+.sitemap .mflow.on { stroke: #8fe05a; filter: drop-shadow(0 0 3px rgba(143,224,90,.8)); } .sitemap .mflow.idle { stroke: #6b7a4c; animation: none; opacity: .55; }
+.sitemap .mflow.off { stroke: #3a3f33; animation: none; stroke-dasharray: 3 8; } .sitemap .mflow.flt { stroke: #ff5148; animation: fltb .8s steps(2, start) infinite; stroke-dasharray: none; }
+.sitemap .mcom { stroke: #5aa8ff; stroke-width: 1.4; stroke-dasharray: 5 6; opacity: .45; }
+.site-leg b.lg { display: inline-block; width: 16px; height: 3px; margin-right: 5px; vertical-align: 3px; border-radius: 2px; } .site-leg b.lg.on { background: #8fe05a; } .site-leg b.lg.com { background: repeating-linear-gradient(90deg, #5aa8ff 0 4px, transparent 4px 7px); }
+.eqph { background: radial-gradient(120% 90% at 50% 70%, #2a2e24, #121510); }
+.eqph svg.isoart { width: 100%; height: 100%; display: block; transition: transform .4s; } .eqph:hover svg.isoart { transform: scale(1.04); }
+.eqph.idle svg.isoart { filter: saturate(.55) brightness(.8); } .eqph.bad svg.isoart { filter: saturate(.4) brightness(.7) sepia(.3) hue-rotate(-25deg); }
+.sld .hexbg { fill: #171a14; }
+
+/* 배치도 상태 카드: 장비 위 말풍선(간결) */
+.spt .scard { left: 50%; right: auto; top: auto; bottom: 14px; transform: translateX(-50%); min-width: 0; padding: 4px 9px 5px; border-radius: 9px; }
+.spt.l .scard { left: 50%; right: auto; }
+.spt:hover .scard { transform: translateX(-50%) translateY(-2px); }
+.spt .scard::after { content: ""; position: absolute; left: 50%; bottom: -5px; width: 8px; height: 8px; background: inherit; border-right: 1px solid rgba(255,255,255,.12); border-bottom: 1px solid rgba(255,255,255,.12); transform: translateX(-50%) rotate(45deg); }
+.scard .sh { font-size: 10.5px; } .scard .sv { gap: 8px; } .scard .sv .mono { font-size: 12px; } .scard .ss { font-size: 10.5px; }
+.spt .core { width: 9px; height: 9px; left: -4.5px; top: -4.5px; } .spt .pulse { width: 24px; height: 24px; left: -12px; top: -12px; }

diff --git a/mobile_ems/ifps_ems_rt/hmi/static/index.html b/mobile_ems/ifps_ems_rt/hmi/static/index.html
@@ -48,7 +48,7 @@
 <div class="modal-bg" id="modal"><div class="modal" id="modalBox"></div></div>
 <div class="toast" id="toast"></div>
 <script src="core.js"></script>
-<script src="equip.js"></script>
+<script src="isoart.js"></script>
 <script src="energy.js"></script>
 <script src="sld.js"></script>
 <script src="site.js"></script>
